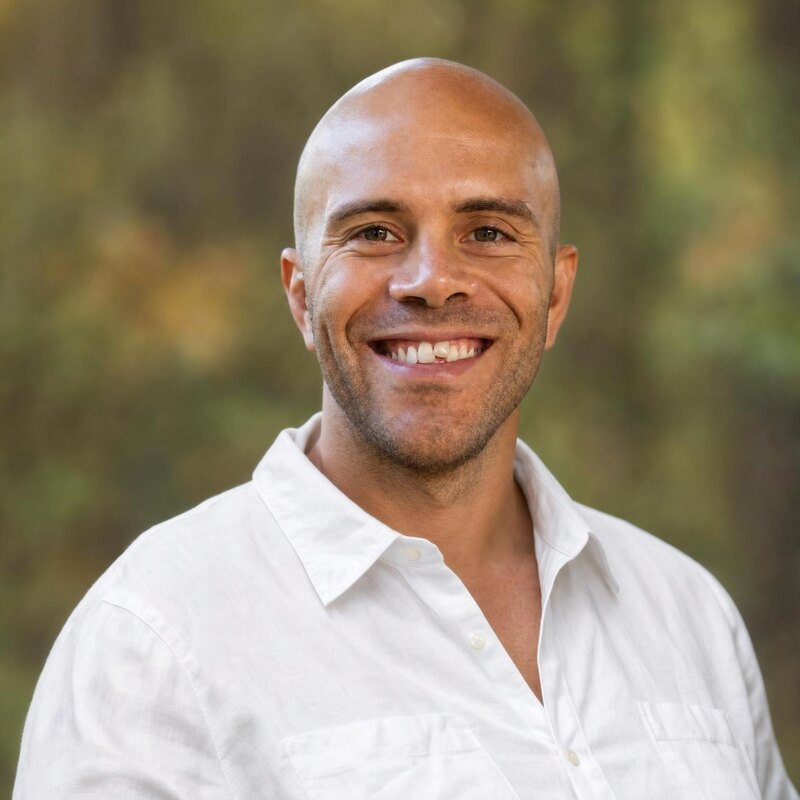
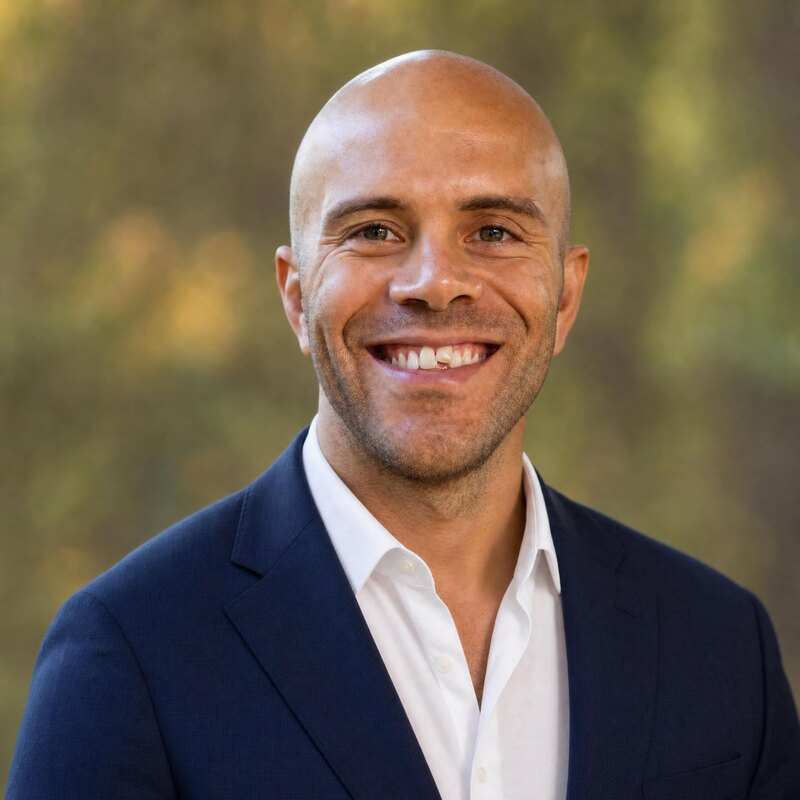
Update Simba headshot to new professional (blazer) version
Client provided an updated, more polished Simba headshot (navy blazer, same
greenery set). Replaced simba-photo.jpg and bumped the About card cache-bust
to v=3.

diff --git a/about.html b/about.html
@@ -175,7 +175,7 @@
     </div>
     <div class="team-main">
       <div class="team-main-img">
-        <img src="simba-photo.jpg?v=2" alt="Simba Stenqvist" width="800" height="981" loading="lazy"/>
+        <img src="simba-photo.jpg?v=3" alt="Simba Stenqvist" width="800" height="981" loading="lazy"/>
       </div>
       <div class="team-main-body">
         <h4>Simba Stenqvist</h4>